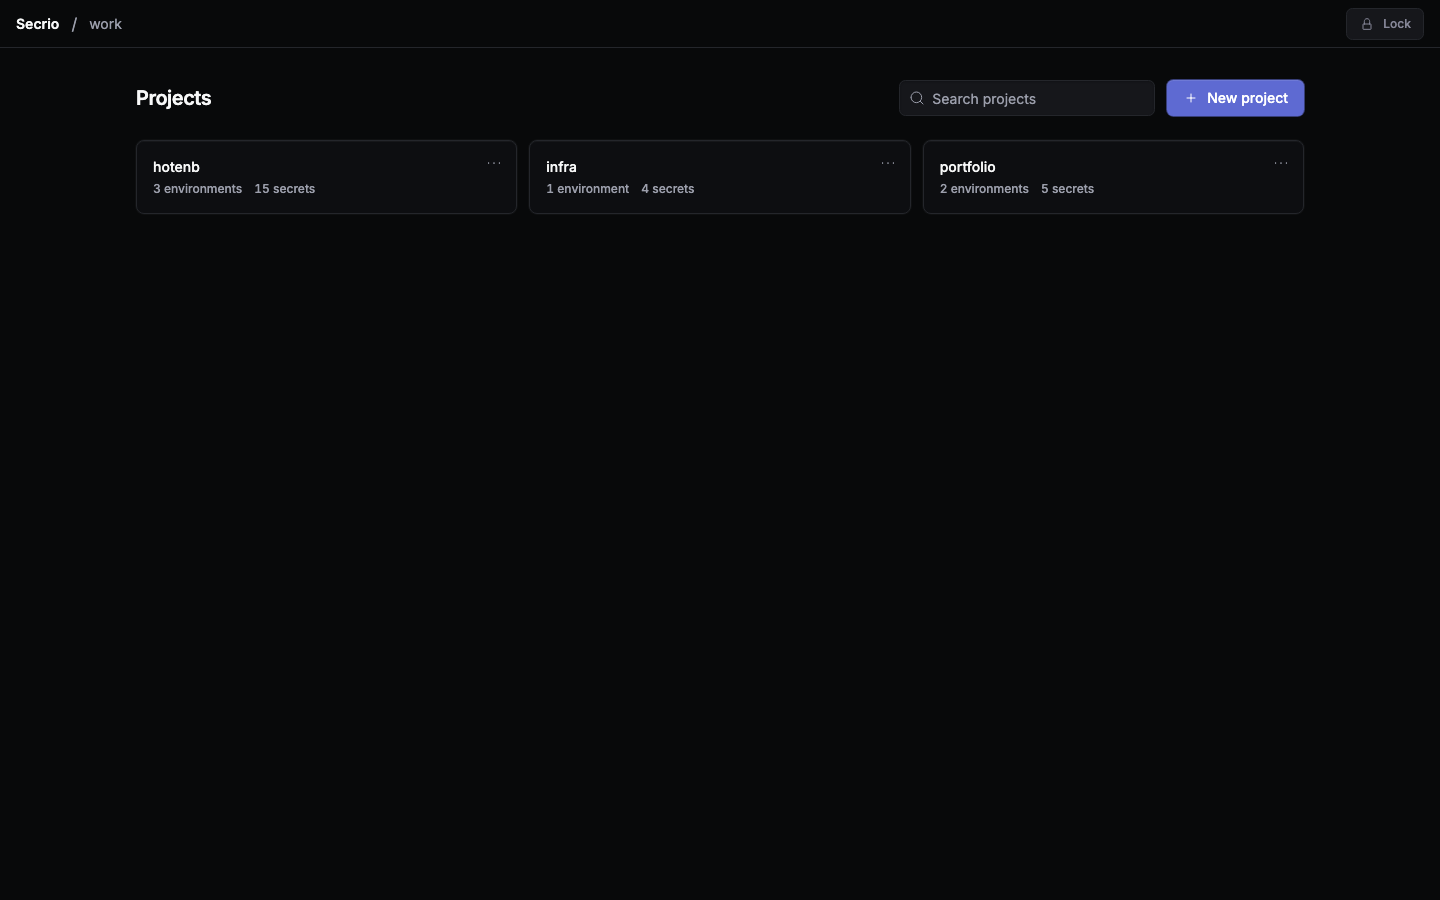
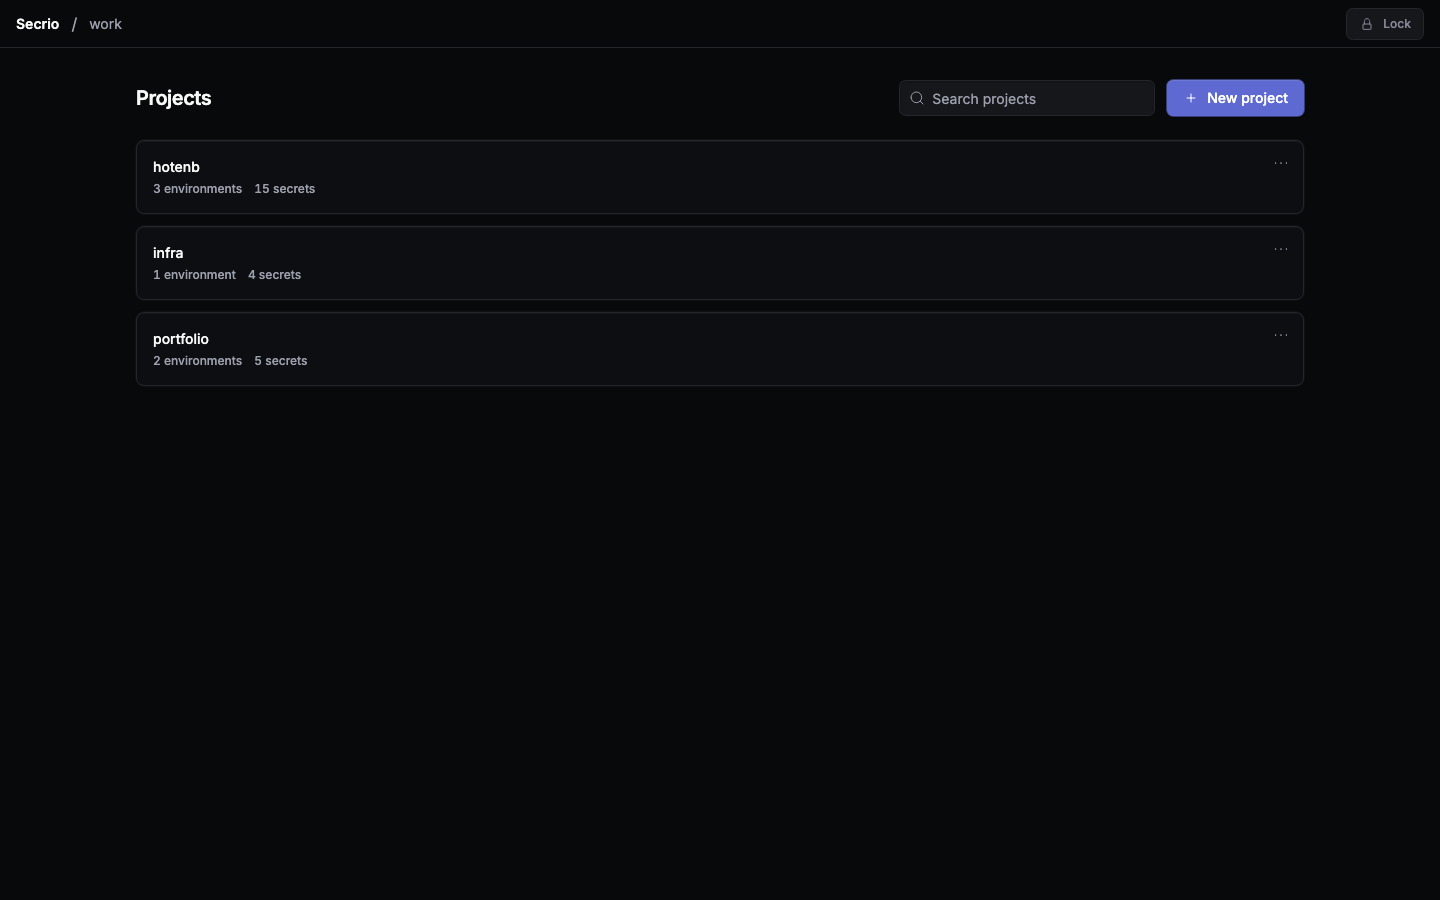
docs: desktop review final round

diff --git a/docs/superpowers/notes/2026-11-19-desktop-review.md b/docs/superpowers/notes/2026-11-19-desktop-review.md
@@ -22,15 +22,15 @@ all fixes). Data comes from the mock seed, so every name and value is fake.
 |---|---|---|---|
 | Unlock (default and wrong password) | pass | 0 / 0 (1440, 960) | done |
 | Create vault | pass | 0 / 0 (1440, 960) | done |
-| Projects, populated | pass | 0 / **1** at 1440 (`composition/lone-component`), 0 / 0 at 960 | **not done**, see below |
+| Projects, populated | pass | 0 / 0 at 1440 (after the single-column list, final round) and 960 | done |
 | Projects, search no match | pass | 0 / 0 | done |
 | Projects, empty vault | pass | 0 / 0 (transient toast left out of the snapshot) | done |
 | New project dialog | pass | 0 / 0 | done |
 | New environment dialog | pass | 0 / 0 | done |
-| Project view: env sidebar, table, detail with a selected and revealed secret | pass (workspace) | 0 / 0 at 1440 | done at 1440; 960 measured before the last two fixes only (screenshot checked) |
-| Project view: nothing selected | pass | measured before the final fixes only | **unverified** (same layout as the revealed state minus the detail card) |
-| Empty environment | pass | not measured | **unverified** (screenshot only) |
-| Project with no environments | pass | not measured | **unverified** (screenshot only) |
+| Project view: env sidebar, table, detail with a selected and revealed secret | pass (workspace) | 0 / 0 at 1440 (full page); 0 / 0 at 960 (scoped: table section + detail panel) | done |
+| Project view: nothing selected | pass | 0 / 0 at 1440 (scoped: detail panel, the only region that differs) | done |
+| Empty environment | pass | 0 / 0 at 1440 (scoped: content section) | done |
+| Project with no environments | pass | 0 / 0 at 1440 (scoped: content section) | done |
 | New / Edit secret dialog (with errors) | pass | 0 / 0 | done |
 | Delete confirmations (secret, env type-to-confirm, project) | pass | 0 / 0 | done |
 | Import: idle | pass | 0 / 0 | done |
@@ -74,7 +74,8 @@ Dialogs were measured at 1440 only: they are fixed-width and centred, so the
    tall, named by its text.
 6. **`spacing/asymmetric-horizontal-inset` (serious)**: search fields (32/12
    because of the leading icon) are now 32/32; project cards (16/48 to leave
-   room for the actions button) are 16/16 with the name width-limited; env
+   room for the actions button) are 16/16 with the name width-limited (and,
+   final round, listed one per row); env
    sidebar items (10/64) are 12/12 with the name width-limited.
 7. **`spacing/density-role` (serious)**: page inset 24 → 16 px (compact
    density) on Projects and the project view; env sidebar width 224 → 184 px
@@ -87,19 +88,24 @@ Dialogs were measured at 1440 only: they are fixed-width and centred, so the
    `--destructive` (about 2:1 on the background). Filled destructive buttons
    keep the dark red with white text.
 
-## Remaining (not done)
+## Final round
 
 - **Projects, populated, 1440: `composition/lone-component` (serious)**,
-  "content covers 22% of the screen and has nothing around it". It does not
-  fire at 960 nor on the no-match/empty states; it depends on the seed (3
-  projects on a large window). The grid now uses `auto-fit` so the cards fill
-  the row, but clearing the rule would need extra content or navigation on
-  the picker (a redesign, out of this task's scope). Decision for the
-  controller/user.
-- **Not re-measured after the final fixes**: project view at 960, project view
-  with nothing selected, empty environment, project with no environments
-  (screenshots reviewed; `inspect-spacing` not run on the final DOM because of
-  the review session's context budget). Treat them as unverified.
+  "content covers 22% of the screen and has nothing around it" (3 cards in a
+  4-column grid on a large window). Minimal fix, attempt 1 of 2: the projects
+  are a single-column list of full-width rows (`grid-cols-1`, same card
+  component). Re-measured at 1440: 0 critical / 0 serious. No second attempt
+  needed.
+- **Re-measured after the final fixes** (real rendered DOM, `newScreen: true`):
+  project view at 960, nothing selected, empty environment, no environments:
+  0 critical / 0 serious. These runs used the capture script's `scope` (the
+  region that differs from the already-measured full page: table section,
+  detail panel, content section); the top bar and sidebar were measured on
+  the full project view at 1440.
+
+## Remaining (not done)
+
+None at critical/serious level. Moderates below are accepted.
 
 ## Accepted moderates (not fixed)
 
